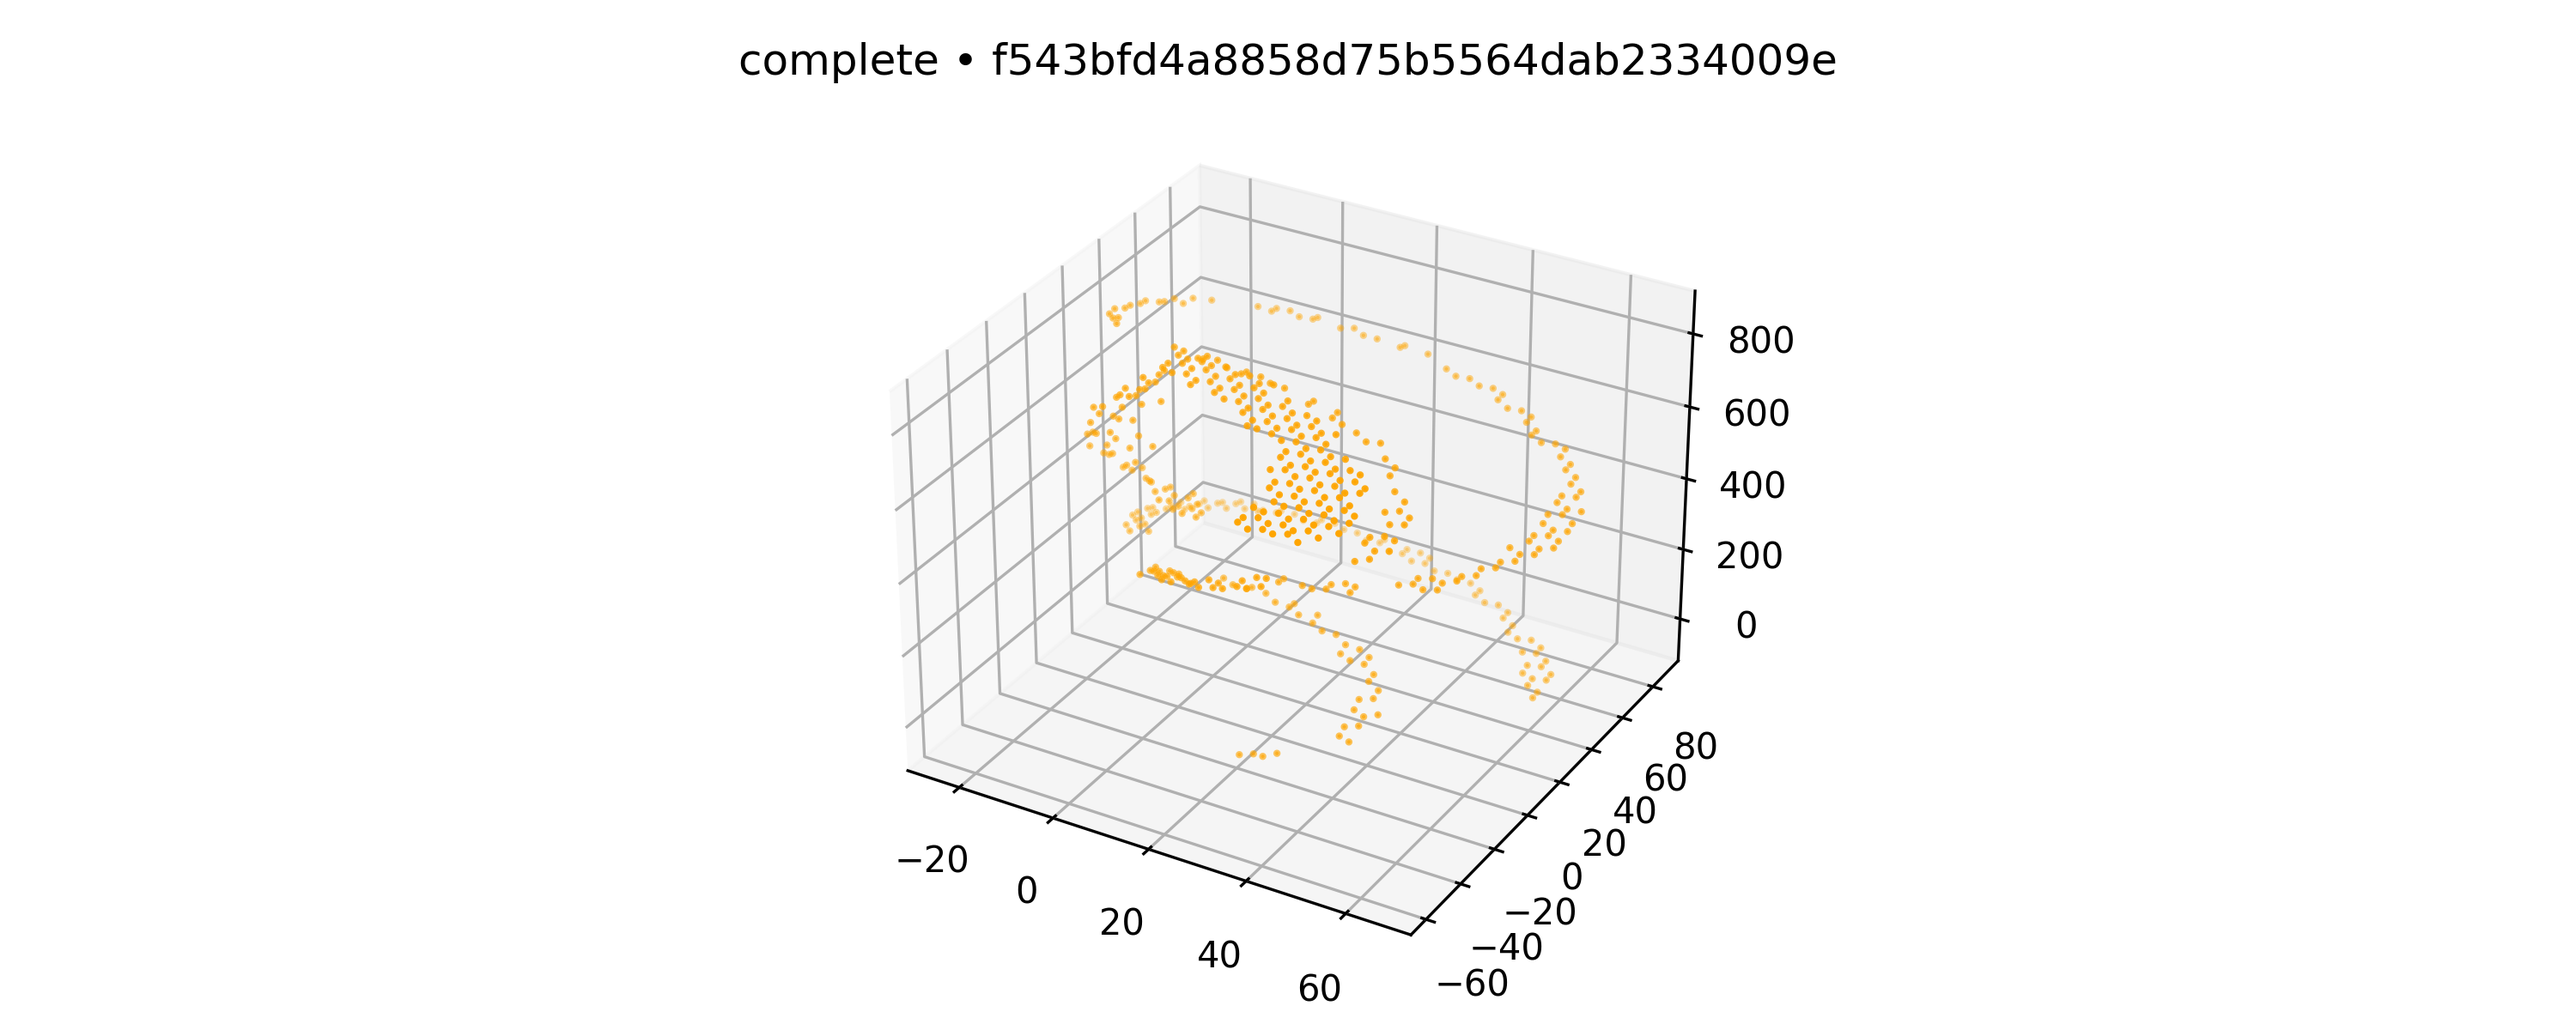
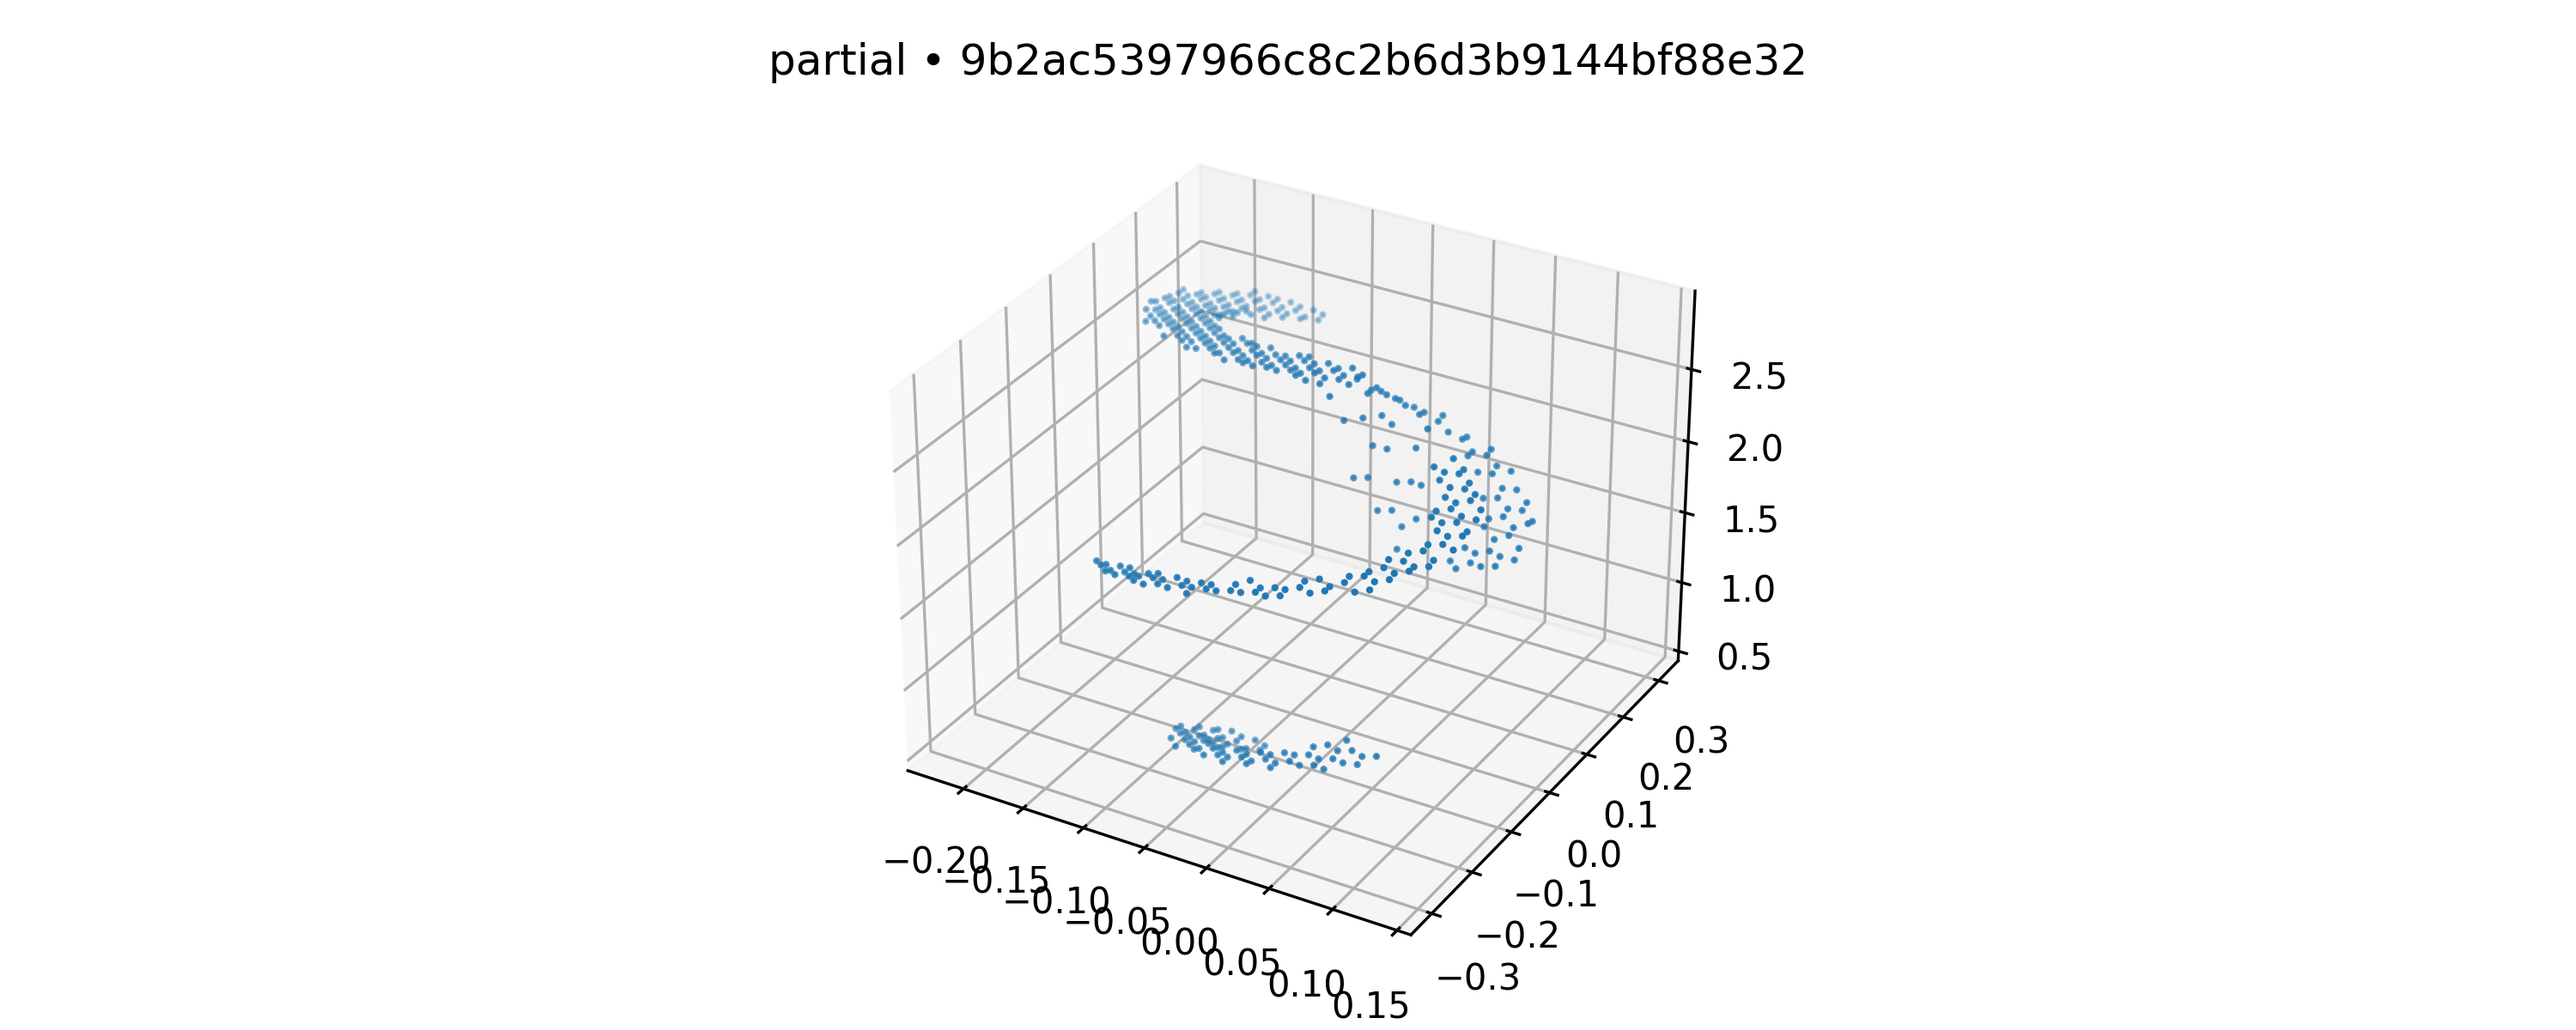
training now possible

Changed region(s): [[0.341, 0.185, 0.713, 0.9867], [0.279, 0.0308, 0.713, 0.0925], [0.651, 0.7092, 0.682, 0.74]]

diff --git a/data/Reshape_Data/process_var_in_len.py b/data/Reshape_Data/process_var_in_len.py
@@ -4,7 +4,7 @@ into one numpy array per event for track completion
 
 Author: Ben Wagner
 Date Created: 12 Feb 2025
-Date Edited:  24 Jun 2025 (Hakan Bora Yavuzkara)
+Date Edited:  30 Jun 2025 (Hakan Bora Yavuzkara)
 """
 
 
@@ -19,38 +19,19 @@ sys.path.append("../")
 
 
 
-def scale_data(event, ranges):
+def scale_data(event):
     """
-    ADJUST THIS PART LATER, SCALES DATA TO 0-1 scale.
+    x,y (-1,1)
+    z (0,4)
+    
     """
-    scaled = np.empty_like(event)
-    xs, ys, zs, qs = event[:,0], event[:,1], event[:,2], event[:,3]
+    scaled = np.empty(event.shape, dtype=np.float32)
+    xs, ys, zs = event[:,0], event[:,1], event[:,2]
 
-    scaled[:,0] = (xs - ranges['MIN_X'])   / (ranges['MAX_X'] - ranges['MIN_X'])
-    scaled[:,1] = (ys - ranges['MIN_Y'])   / (ranges['MAX_Y'] - ranges['MIN_Y'])
-    scaled[:,2] = (zs - ranges['MIN_Z'])   / (ranges['MAX_Z'] - ranges['MIN_Z'])
-    scaled[:,3] = (np.log(qs) - ranges['MIN_LNQ']) / (ranges['MAX_LNQ'] - ranges['MIN_LNQ'])
-    return scaled.astype(np.float32)
-
-def get_ranges(h5_paths):
-    """
-    ADJUST THIS PART LATER, Gets the range of coordinates for each point cloud.
-    """
-    mins = np.full(4,  np.inf)
-    maxs = np.full(4, -np.inf)
-    for p in h5_paths:
-        with h5py.File(p, 'r') as f:
-            for k in f.keys():
-                arr = f[k][()]                    # (N, ≥5)
-                mins[:3] = np.minimum(mins[:3], arr[:,:3].min(0))
-                maxs[:3] = np.maximum(maxs[:3], arr[:,:3].max(0))
-                lnq = np.log(arr[:,4])
-                mins[3] = min(mins[3], lnq.min())
-                maxs[3] = max(maxs[3], lnq.max())
-    return dict(MIN_X=mins[0], MAX_X=maxs[0],
-                MIN_Y=mins[1], MAX_Y=maxs[1],
-                MIN_Z=mins[2], MAX_Z=maxs[2],
-                MIN_LNQ=mins[3], MAX_LNQ=maxs[3])
+    scaled[:,0] = (xs)/255.0
+    scaled[:,1] = (ys)/255.0
+    scaled[:,2] = (zs)/255.0
+    return scaled
 
 
 
@@ -94,7 +75,7 @@ def process_file(file_path, save_path, min_len, max_len):
 
         # Save each event with a random hash
         # Scale event also
-        scaled_event = scale_data(event, RANGES)
+        scaled_event = scale_data(event)
         name = f"{save_path}/{random.getrandbits(128):032x}.npy"
         np.save(name, scaled_event)
 
@@ -254,6 +235,8 @@ def sort_files(mg_path, o_path, save_path, train, val, test):
     '''
 
     # Ensure folders exist / create if they don't
+    # To not create them where I run it from
+    """
     if not os.path.exists(f"./train/"):
         os.mkdir("./train")
     if not os.path.exists("./train/complete"):
@@ -266,6 +249,7 @@ def sort_files(mg_path, o_path, save_path, train, val, test):
         os.mkdir("./test")
     if not os.path.exists("./test/complete"):
         os.mkdir("./test/complete")
+    """
 
     for split in ('train', 'val', 'test'):
         os.makedirs(f"{save_path}/{split}/complete", exist_ok=True)
@@ -316,12 +300,15 @@ def create_partial_clouds(path, percentage_cut=0.25):
     '''
 
     # Ensure folders exist / create if they don't
+    # To not create them where I run it from
+    """
     if not os.path.exists("./train/partial"):
         os.makedirs(os.path.join(path,"train","partial"),exist_ok=True)
     if not os.path.exists("./val/partial"):
         os.makedirs(os.path.join(path,"val","partial"),exist_ok=True)
     if not os.path.exists("./test/partial"):
         os.makedirs(os.path.join(path,"test","partial"),exist_ok=True)
+    """
 
     for split in ('train', 'val', 'test'):
         os.makedirs(f"{path}/{split}/partial", exist_ok=True)
@@ -365,8 +352,6 @@ if __name__ == '__main__':
 
     CATEGORY_FILE_PATH = "/home/DAVIDSON/hayavuzkara/Data/22Mg_16O_combo/category.json"
 
-    # Standardize for each coordinates to be between 0-1
-    RANGES = get_ranges([MG_FILE_PATH, O_FILE_PATH])
 
     # Process
     process_file(MG_FILE_PATH, MG_SAVE_PATH, MIN_N_POINTS, MAX_N_POINTS)

diff --git a/graph.py b/graph.py
@@ -2,21 +2,18 @@ import os, random, json, numpy as np
 import matplotlib
 matplotlib.use("Agg")
 import matplotlib.pyplot as plt
-from mpl_toolkits.mplot3d import Axes3D   # noqa: F401
+from mpl_toolkits.mplot3d import Axes3D 
 
-# ---------------------------------------------------------
-# 1. pick a random training sample (hash)
-# ---------------------------------------------------------
-CAT_FILE = "/home/DAVIDSON/hayavuzkara/TPC_PoinTr/data/ALPHA/category.json"
+
+
+CAT_FILE = "/home/DAVIDSON/hayavuzkara/Data/22Mg_16O_combo/category.json"
 with open(CAT_FILE) as f:
     cats = json.load(f)
 
 train_hashes = cats[0]["train"] + cats[1]["train"]
 h = random.choice(train_hashes)           # random hash string
 
-# ---------------------------------------------------------
-# 2. build paths and load .npy files
-# ---------------------------------------------------------
+
 ROOT = "/home/DAVIDSON/hayavuzkara/Data/22Mg_16O_combo"
 subset = "train"
 
@@ -32,22 +29,20 @@ print(partial)
 print(complete)
 
 
-# ---------------------------------------------------------
-# 3. visualise
-# ---------------------------------------------------------
+
 fig = plt.figure(figsize=(10,4))
 
-"""
-ax1 = fig.add_subplot(121, projection='3d')
+
+ax1 = fig.add_subplot(111, projection='3d')
 ax1.scatter(partial[:,0], partial[:,1], partial[:,2], s=1)
 ax1.set_title("partial • " + h)
+
+
 """
-
-
 ax2 = fig.add_subplot(111, projection='3d')
 ax2.scatter(complete[:,0], complete[:,1], complete[:,2], s=1, c="orange")
 ax2.set_title("complete • " + h)
-
+"""
 
 plt.tight_layout()
 plt.savefig("sample_pc.png", dpi=300)

diff --git a/tools/runner.py b/tools/runner.py
@@ -90,6 +90,9 @@ def run_net(args, config, train_writer=None, val_writer=None):
 
         base_model.train()  # set model to training mode
         n_batches = len(train_dataloader)
+
+        
+        # Change it so that wherever there is taxonomy_ids, it works with "experiment" as well.
         for idx, (taxonomy_ids, model_ids, data) in enumerate(train_dataloader):
             data_time.update(time.time() - batch_start_time)
             npoints = config.dataset.train._base_.N_POINTS

diff --git a/datasets/ALPHA.py b/datasets/ALPHA.py
@@ -30,9 +30,11 @@ class ALPHA(data.Dataset):
         #As data is normalised already
         self.already_norm = getattr(config, 'ALREADY_NORMALISED', False)
 
+        
         # Following is possibly wrong:
         self.variant = getattr(config, 'VARIANT', 'rand')
-    
+
+        
         # Load the dataset indexing file
         self.dataset_categories = []
         with open(self.category_file) as f:
